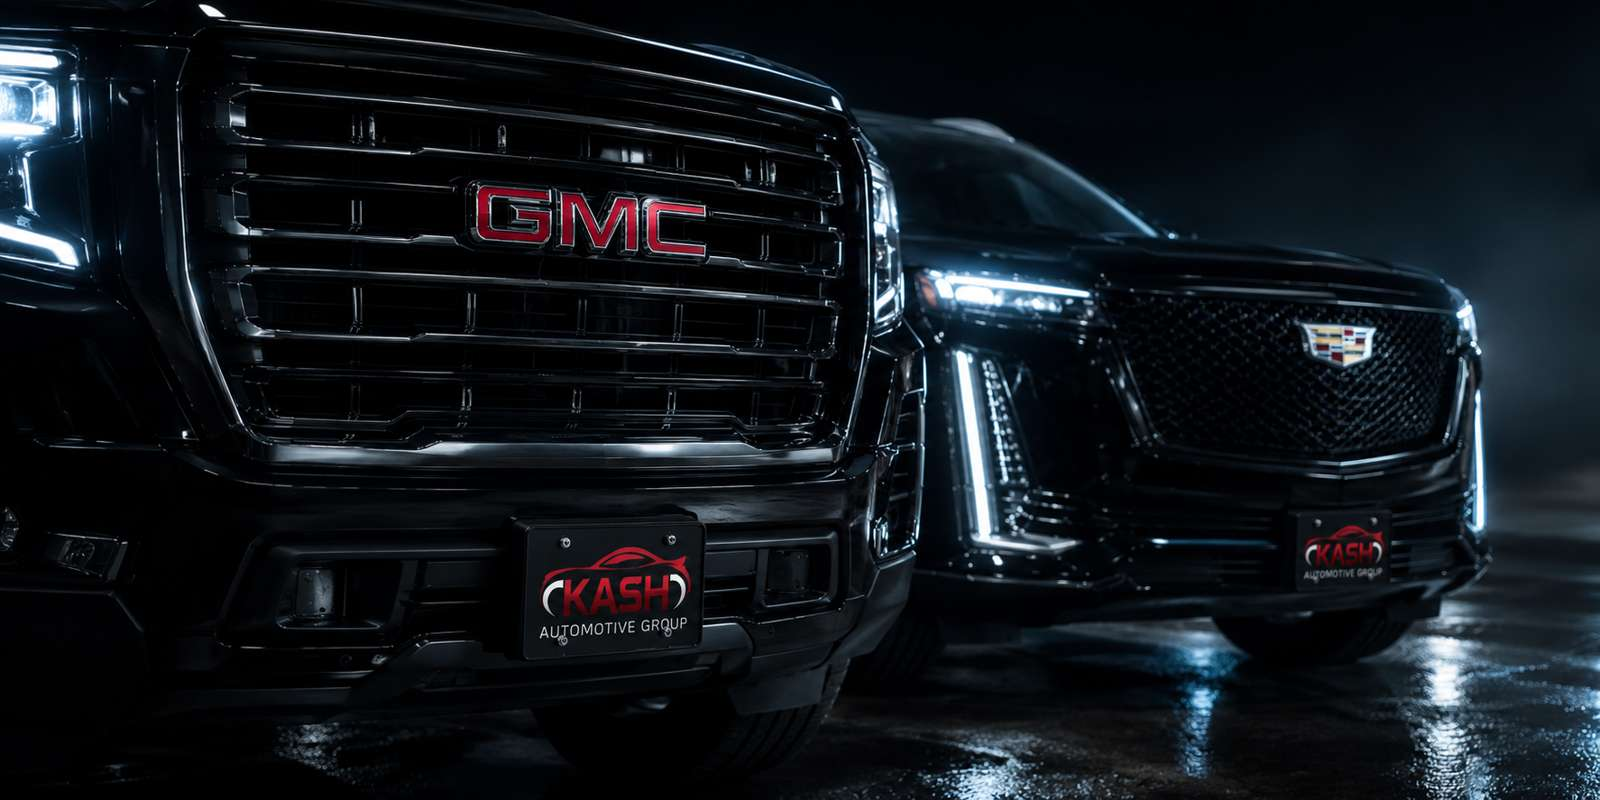
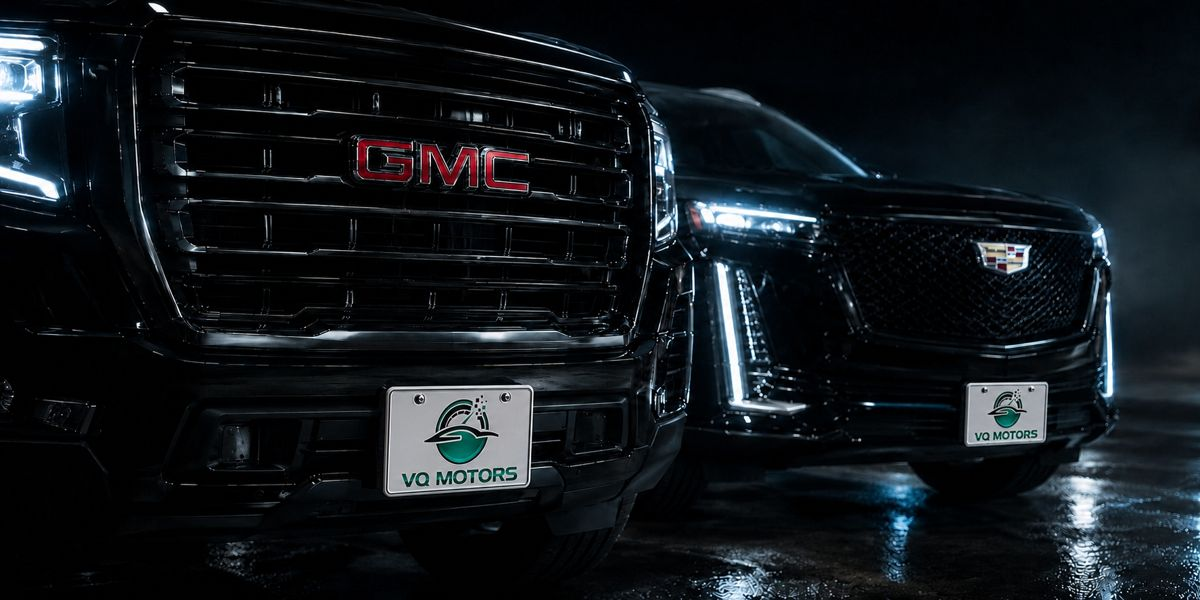
u logo2

diff --git a/src/app/components/homepage/Testimonials.jsx b/src/app/components/homepage/Testimonials.jsx
@@ -12,32 +12,32 @@ import avatarRobert from "../../homepage-assets/avatar-robert.jpg";
 const testimonials = [
   {
     name: "Tyler Brooks",
-    text: "I purchased a brand new F-350 from Z Motors and the process was flawless from start to finish. They knew exactly what I needed for my work, helped me choose the right configuration, and had everything ready quickly. The truck showed up exactly as promised, no surprises. Solid team and real professionals.",
+    text: "I purchased a brand new F-350 from VQ Motors and the process was flawless from start to finish. They knew exactly what I needed for my work, helped me choose the right configuration, and had everything ready quickly. The truck showed up exactly as promised, no surprises. Solid team and real professionals.",
     image: avatarTyler,
   },
   {
     name: "Jason Miller",
-    text: "We've sourced multiple new trucks through Z Motors, including Sierra 3500HD models for our fleet. Every unit was exactly as described, and the communication throughout the process was excellent. If you're looking for heavy-duty trucks without wasting time, this is the place.",
+    text: "We've sourced multiple new trucks through VQ Motors, including Sierra 3500HD models for our fleet. Every unit was exactly as described, and the communication throughout the process was excellent. If you're looking for heavy-duty trucks without wasting time, this is the place.",
     image: avatarJason,
   },
   {
     name: "Chris Alvarez",
-    text: "Picked up a brand new GMC Sierra 3500HD and couldn't be happier. The team at Z Motors made everything straightforward - no pressure, just clear information and fast execution. They even handled the delivery to my location without any issues. Highly recommend if you want it done right.",
+    text: "Picked up a brand new GMC Sierra 3500HD and couldn't be happier. The team at VQ Motors made everything straightforward - no pressure, just clear information and fast execution. They even handled the delivery to my location without any issues. Highly recommend if you want it done right.",
     image: avatarChris,
   },
   {
     name: "Mike Thompson",
-    text: "I purchased a Ford F-150 through Z Motors and the entire experience was smooth and efficient. They helped me choose the right setup for both work and personal use, and everything was delivered exactly as promised. The truck arrived in perfect condition and ready to drive.",
+    text: "I purchased a Ford F-150 through VQ Motors and the entire experience was smooth and efficient. They helped me choose the right setup for both work and personal use, and everything was delivered exactly as promised. The truck arrived in perfect condition and ready to drive.",
     image: avatarMike,
   },
   {
     name: "Daniel Carter",
-    text: "We sourced a Chevrolet Silverado 1500 through Z Motors for our operations and were very impressed with the service. Communication was clear, pricing was transparent, and the vehicle matched all specifications. Delivery was fast and completely hassle-free.",
+    text: "We sourced a Chevrolet Silverado 1500 through VQ Motors for our operations and were very impressed with the service. Communication was clear, pricing was transparent, and the vehicle matched all specifications. Delivery was fast and completely hassle-free.",
     image: avatarDaniel,
   },
   {
     name: "Robert Smith",
-    text: "Bought a Ram 2500 through Z Motors and the whole process was excellent. They kept me updated at every step and made sure the truck was exactly what I needed. It arrived on time and in perfect condition—couldn’t ask for better service.",
+    text: "Bought a Ram 2500 through VQ Motors and the whole process was excellent. They kept me updated at every step and made sure the truck was exactly what I needed. It arrived on time and in perfect condition—couldn’t ask for better service.",
     image: avatarRobert,
   },
 ];

diff --git a/src/app/terms/legalData.js b/src/app/terms/legalData.js
@@ -4,7 +4,7 @@ const legalSections = [
     "blocks": [
       {
         "type": "p",
-        "text": "Welcome to Z Motors. These Terms and Conditions (\"Terms\") govern your access to and use of our website, services, and any related communications. By accessing our website or using our services, you agree to be bound by these Terms."
+        "text": "Welcome to VQ Motors. These Terms and Conditions (\"Terms\") govern your access to and use of our website, services, and any related communications. By accessing our website or using our services, you agree to be bound by these Terms."
       },
       {
         "type": "p",
@@ -17,7 +17,7 @@ const legalSections = [
     "blocks": [
       {
         "type": "p",
-        "text": "Z Motors operates as a premium automobile dealership. Our services include:"
+        "text": "VQ Motors operates as a premium automobile dealership. Our services include:"
       },
       {
         "type": "ul",
@@ -127,14 +127,14 @@ const legalSections = [
     "blocks": [
       {
         "type": "p",
-        "text": "By submitting an inquiry form or providing your contact information, you expressly consent to receive communications from Z Motors, including:"
+        "text": "By submitting an inquiry form or providing your contact information, you expressly consent to receive communications from VQ Motors, including:"
       },
       {
         "type": "ul",
         "items": [
           {
             "strong": "Phone Calls:",
-            "text": "You consent to receive telephone calls, including calls made using an automatic telephone dialing system, at the phone number you provided, from Z Motors at (404) 429-5639."
+            "text": "You consent to receive telephone calls, including calls made using an automatic telephone dialing system, at the phone number you provided, from VQ Motors at (404) 429-5639."
           },
           {
             "strong": "Text Messages (SMS):",
@@ -239,7 +239,7 @@ const legalSections = [
     "blocks": [
       {
         "type": "p",
-        "text": "All content on this website, including text, images, graphics, logos, and software, is the property of Z Motors or its licensors and is protected by intellectual property laws. You may not use, reproduce, or distribute any content without our written permission."
+        "text": "All content on this website, including text, images, graphics, logos, and software, is the property of VQ Motors or its licensors and is protected by intellectual property laws. You may not use, reproduce, or distribute any content without our written permission."
       }
     ]
   },
@@ -257,7 +257,7 @@ const legalSections = [
     "blocks": [
       {
         "type": "p",
-        "text": "TO THE MAXIMUM EXTENT PERMITTED BY LAW, Z Motors SHALL NOT BE LIABLE FOR ANY INDIRECT, INCIDENTAL, SPECIAL, CONSEQUENTIAL, OR PUNITIVE DAMAGES ARISING FROM YOUR USE OF THE WEBSITE OR SERVICES."
+        "text": "TO THE MAXIMUM EXTENT PERMITTED BY LAW, VQ Motors SHALL NOT BE LIABLE FOR ANY INDIRECT, INCIDENTAL, SPECIAL, CONSEQUENTIAL, OR PUNITIVE DAMAGES ARISING FROM YOUR USE OF THE WEBSITE OR SERVICES."
       }
     ]
   },
@@ -266,7 +266,7 @@ const legalSections = [
     "blocks": [
       {
         "type": "p",
-        "text": "You agree to indemnify and hold harmless Z Motors, its officers, directors, employees, and agents from any claims, damages, losses, or expenses arising from your use of the website or violation of these Terms."
+        "text": "You agree to indemnify and hold harmless VQ Motors, its officers, directors, employees, and agents from any claims, damages, losses, or expenses arising from your use of the website or violation of these Terms."
       }
     ]
   },

diff --git a/src/app/components/about/ContactSection.jsx b/src/app/components/about/ContactSection.jsx
@@ -16,9 +16,9 @@ function ContactSection({ LocationIcon, ClockIcon, PhoneIcon, ExternalIcon }) {
               <div className="contact-item-content">
                 <h4>Location</h4>
                 <p>
-                  5724 New Peachtree Rd Ste A-1, Chamblee
+                  102 Oglethorpe Professional Blvd,
                   <br />
-                  Atlanta, GA 30341
+                  Savannah, GA 31406
                 </p>
               </div>
             </div>
@@ -68,10 +68,10 @@ function ContactSection({ LocationIcon, ClockIcon, PhoneIcon, ExternalIcon }) {
                   strokeWidth: 1.5,
                 }}
               />
-              <p style={{ color: "var(--color-text-secondary)" }}> 5724 New Peachtree Rd Ste A-1, Chamblee </p>
+              <p style={{ color: "var(--color-text-secondary)" }}> 102 Oglethorpe Professional Blvd </p>
 
               <a
-                href="https://maps.app.goo.gl/6V2nfCpUjjJHRff78"
+                href="https://maps.app.goo.gl/BbMfSAbFm3pbrTpAA"
                 target="_blank"
                 rel="noopener noreferrer"
                 className="btn btn-outline"

diff --git a/src/app/privacy/privacyData.js b/src/app/privacy/privacyData.js
@@ -4,7 +4,7 @@ const privacySections = [
     "blocks": [
       {
         "type": "p",
-        "text": "Z Motors (\"we,\" \"our,\" or \"us\") respects your privacy and is committed to protecting your personal information. This Privacy Policy explains how we collect, use, disclose, and safeguard your information when you visit our website, contact us, or use our services."
+        "text": "VQ Motors (\"we,\" \"our,\" or \"us\") respects your privacy and is committed to protecting your personal information. This Privacy Policy explains how we collect, use, disclose, and safeguard your information when you visit our website, contact us, or use our services."
       },
       {
         "type": "p",
@@ -106,7 +106,7 @@ const privacySections = [
         "items": [
           {
             "strong": "Phone calls",
-            "text": "from Z Motors at (404) 429-5639 regarding your inquiry and related vehicle information"
+            "text": "from VQ Motors at (404) 429-5639 regarding your inquiry and related vehicle information"
           },
           {
             "strong": "SMS/Text messages",

diff --git a/src/app/layout.js b/src/app/layout.js
@@ -5,26 +5,26 @@ import { Analytics } from "@vercel/analytics/next"
 import Script from "next/script";
 
 export const metadata = {
-  metadataBase: new URL("https://zmotorscars.com"),
+  metadataBase: new URL("https://vqmotorspro.com"),
 
   title: {
-    default: "Z Motors | Premium Vehicles",
-    template: "%s | Z Motors",
+    default: "VQ Motors | Premium Vehicles",
+    template: "%s | VQ Motors",
   },
 
   description:
-    "Discover a curated selection of premium vehicles at Z Motors in Atlanta, GA.",
+    "Discover a curated selection of premium vehicles at VQ Motors in Atlanta, GA.",
 
   alternates: {
     canonical: "/",
   },
 
   openGraph: {
-    title: "Z Motors | Premium Vehicles",
+    title: "VQ Motors | Premium Vehicles",
     description:
       "Premium cars, trucks, and SUVs in Atlanta, GA.",
-    url: "https://zmotorscars.com",
-    siteName: "Z Motors",
+    url: "https://vqmotorspro.com",
+    siteName: "VQ Motors",
     images: [
       {
         url: "/og-image.jpg",

diff --git a/src/app/components/purchase/PurchaseForm.jsx b/src/app/components/purchase/PurchaseForm.jsx
@@ -194,7 +194,7 @@ export default function PurchaseForm({ id }) {
           <label>
             <input type="checkbox" name="consent" required value="on" />
             <span>
-              I confirm that the information provided is accurate and I authorize Z Motors to contact me regarding this purchase. I understand that submitting this form is a non-binding expression of interest and does not constitute a final purchase agreement. I agree to the <Link href="/terms">Terms of Service</Link> and <Link href="/privacy"> Privacy Policy</Link>. 
+              I confirm that the information provided is accurate and I authorize VQ Motors to contact me regarding this purchase. I understand that submitting this form is a non-binding expression of interest and does not constitute a final purchase agreement. I agree to the <Link href="/terms">Terms of Service</Link> and <Link href="/privacy"> Privacy Policy</Link>. 
             </span>
           </label>
         </div>

diff --git a/src/app/components/homepage/ContactSection.jsx b/src/app/components/homepage/ContactSection.jsx
@@ -121,9 +121,9 @@ export default function ContactSection() {
               <div className="contact-item-content">
                 <h4>Location</h4>
                 <p>
-                  5724 New Peachtree Rd Ste A-1, Chamblee
+                  102 Oglethorpe Professional Blvd, 
                   <br />
-                  Atlanta, GA 30341
+                  Savannah, GA 31406
                 </p>
               </div>
             </div>
@@ -233,7 +233,7 @@ export default function ContactSection() {
                     defaultChecked
                   />
                   <span>
-                    I agree to be contacted by Z Motors.
+                    I agree to be contacted by VQ Motors.
                     <small>
                       {" "}
                       <Link href="/privacy">Privacy Policy</Link>

diff --git a/src/app/components/layout/Footer.jsx b/src/app/components/layout/Footer.jsx
@@ -141,9 +141,9 @@ export default function Footer() {
               <LocationIcon />
 
               <span>
-                5724 New Peachtree Rd Ste A-1, Chamblee
+                102 Oglethorpe Professional Blvd
                 <br />
-                Atlanta, GA 30341
+                Savannah, GA 31406
               </span>
             </div>
 
@@ -177,7 +177,7 @@ export default function Footer() {
           </div>
 
           <p className="footer-copyright">
-            © 2026 Z Motors.
+            © 2026 VQ Motors.
             All rights reserved.
           </p>
         </div>

diff --git a/src/app/privacy/page.js b/src/app/privacy/page.js
@@ -69,9 +69,9 @@ function LegalContent() {
             <p>If you have questions about this Privacy Policy or our privacy practices, please contact us:</p>
             <div className="contact-info">
               <p>
-                <strong>Z Motors</strong>
+                <strong>VQ Motors</strong>
               </p>
-              <p> 5724 New Peachtree Rd Ste A-1, Chamblee, Atlanta, GA 30341</p>
+              <p> 102 Oglethorpe Professional Blvd, Savannah, GA 31406</p>
               <p>
                 Phone: <a href="tel:4044295639">(404) 429-5639</a>
               </p>

diff --git a/src/app/components/about/BeginningSection.jsx b/src/app/components/about/BeginningSection.jsx
@@ -27,7 +27,7 @@ export default function BeginningSection() {
           </p>
 
           <p style={{ color: "var(--color-text-secondary)", lineHeight: 1.9, marginBottom: "1.25rem" }}>
-            Founded in 2014, Z Motors emerged from a deep-rooted passion for automotive excellence. What began as a
+            Founded in 2018, VQ Motors emerged from a deep-rooted passion for automotive excellence. What began as a
             personal vision quickly evolved into a trusted destination for drivers across the nation.
           </p>
 

diff --git a/src/app/components/about/Hero.jsx b/src/app/components/about/Hero.jsx
@@ -3,7 +3,7 @@ export default function Hero() {
     <div className="page-header-about" style={{ minHeight: "50vh", display: "flex", alignItems: "center", justifyContent: "center" }}>
       <div style={{ textAlign: "center" }}>
         <span className="hero-tag" style={{ animation: "fadeUp 0.6s ease both" }}>
-          From 2014
+          From 2018
         </span>
         <h1>Our Story</h1>
         <p>A legacy built on passion, integrity, and excellence</p>

diff --git a/src/app/components/terms/LegalContent.jsx b/src/app/components/terms/LegalContent.jsx
@@ -39,10 +39,10 @@ function LegalContent({ legalSections }) {
 
             <div className="contact-info">
               <p>
-                <strong>Z Motors</strong>
+                <strong>VQ Motors</strong>
               </p>
 
-              <p>5724 New Peachtree Rd Ste A-1, Chamblee, Atlanta, GA 30341</p>
+              <p>102 Oglethorpe Professional Blvd, Savannah, GA 31406</p>
 
               <p>
                 Phone:{" "}
